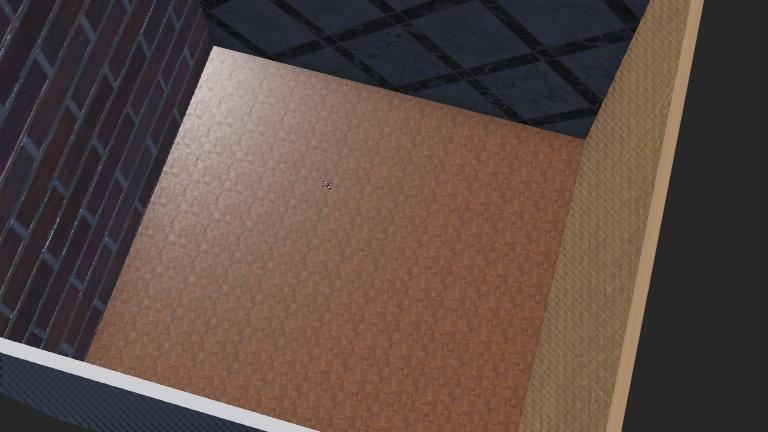
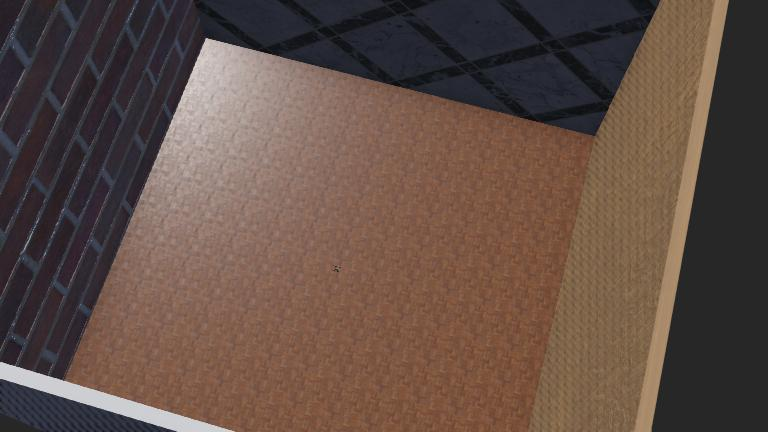
add loading of movement pattern from config

diff --git a/RobotControl/WebotsController.py b/RobotControl/WebotsController.py
@@ -45,6 +45,7 @@ class WebotsController:
 
     def __init__(
         self,
+        initial_position=np.array([0.0, 0.0, -2.9]),
         sim_time=10.0,
         relative_position=False,
         navigation=None,
@@ -52,10 +53,12 @@ class WebotsController:
     ):
         """
         Args:
+            initial_position: Initial position of the UAV in the world frame.
             sim_time: Default flight duration in seconds for run().
             relative_position: Shared absolute/relative target mode for UAV and Navigation.
             navigation: Optional pre-built Navigation instance.
-            **nav_kwargs: Forwarded to Navigation when navigation is None.
+            **nav_kwargs: Forwarded to Navigation when navigation is None
+                (e.g. pattern; defaults to random_3d if omitted).
         """
         # Supervisor subclasses Robot; one instance owns the extern controller link.
         self.robot = Supervisor()
@@ -63,6 +66,8 @@ class WebotsController:
         self.trans_field = (
             self.robot_node.getField("translation") if self.robot_node is not None else None
         )
+        self.trans_field.setSFVec3f(initial_position)
+        self.robot_node.resetPhysics()
 
         self.timestep = int(self.robot.getBasicTimeStep())
         self.sim_time = float(sim_time)

diff --git a/Experiments/VelNoise.py b/Experiments/VelNoise.py
@@ -36,6 +36,10 @@ class VelNoise_Experiment():
 		self.n_gains = ast.literal_eval(parameters.get('GridConfig', 'n_gains'))
 		self.gain_spacing = ast.literal_eval(parameters.get('GridConfig', 'gain_spacing'))
 
+		self.movement_pattern = parameters.get(
+			'Movement_pattern', 'Movement_pattern', fallback='random_3d'
+		).strip() or 'random_3d'
+
 		print("trials_per_setting parameter -> {}".format(self.trials_per_setting))
 		print("sim_time parameter -> {}".format(self.sim_time))
 		print("noise_vel parameter -> {}".format(self.noise_vel))
@@ -44,12 +48,13 @@ class VelNoise_Experiment():
 		print("starting_gain parameter -> {}".format(self.starting_gain))
 		print("n_gains parameter -> {}".format(self.n_gains))
 		print("gain_spacing parameter -> {}".format(self.gain_spacing))
+		print("Movement_pattern parameter -> {}".format(self.movement_pattern))
 
 
 
 	def main_experiment_loop(self):
 		# Simulation ownership (Robot + time loop) lives in WebotsController.
-		webots = WebotsController(sim_time=self.sim_time)
+		webots = WebotsController(sim_time=self.sim_time, pattern=self.movement_pattern)
 		webots.run()
 
 		# Finish and save
